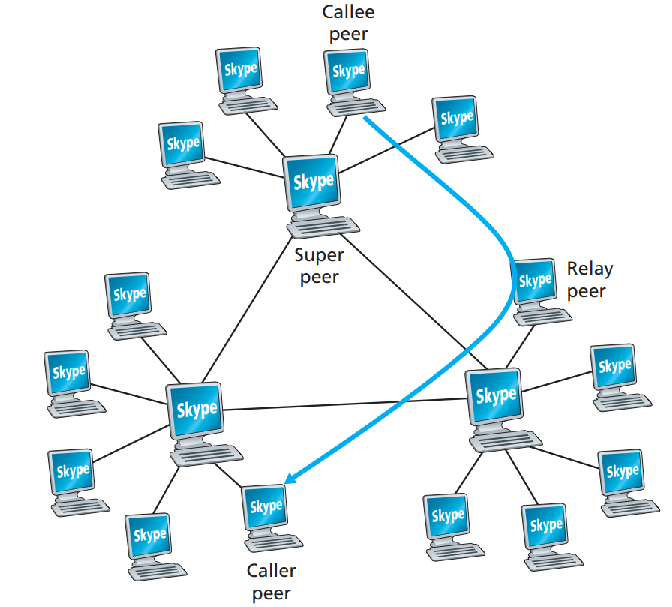
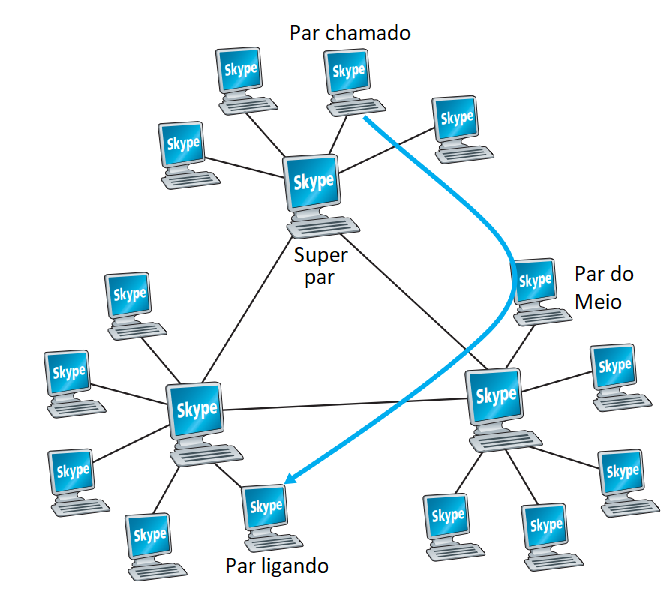
Finish reviewing Skype section

diff --git a/aplicacoes.html b/aplicacoes.html
@@ -75,10 +75,15 @@
 							<br>
 
 							<h3>Skype</h3>
-							<p class="paragraphText"><span class="spaceTab"></span>O protocolo utilizado no Skype é proprietário e por tal motivo não é trivial determinar com precisão como o Skype funciona. No entanto, sabe-se que por padrão, o Skype envia pacotes de vídeo e áudio através do UDP. Por outro lado, pacotes de controle são enviados através do TCP. Skype é um exemplo de como técnicas P2P podem ser utilizadas em aplicações diferentes de compartilhamento de arquivos ou distribuição de conteúdo.</p>
-							<p class="paragraphText"><span class="spaceTab"></span>Temos que os dois serviços principais do Skype, telefonia pela internet e mensagens instantâneas, são intrínsecamente P2P tendo em vista que a aplicação se resume a pares de usuários se comunicando em tempo real. Não obstante, há ainda duas outras funções que utilizam técnicas P2P: NAT transversal e localização de usuários. Uma hierarquia é formada pelos pares que são classificados entre um par ordinário ou um super par. É mantido um índice que mapeia nome de usuários do Skype a seus respectivos atuais endereços IP que é distribuído através dos super pares aos demais da hierarquia.</p>
+							<p class="paragraphText"><span class="spaceTab"></span>O protocolo utilizado no Skype é proprietário e, por isso, é difícil determinar seu funcionamento com precisão. No entanto, sabe-se que, por padrão, 
+							os pacotes de vídeo e áudio são enviados através de UDP, enquanto o controle das chamadas é feito por TCP. O Skype é um exemplo de como técnicas P2P podem ser utilizadas em aplicações com finalidades que fogem do compartilhamento 
+							de arquivos ou da distribuição de conteúdo com as quais já estamos familiarizados.</p>
+							<p class="paragraphText"><span class="spaceTab"></span>Os dois serviços principais do Skype (telefonia pela internet e mensagens instantâneas) são intrinsecamente P2P, tendo em vista que a aplicação se 
+							resume a pares de usuários se comunicando em tempo real. Suspeita-se que uma hierarquia seja formada pelos pares participantes, separando-os em "pares ordinários", referentes aos usuários comuns do serviço,
+							e "superpares", que mantêm mais conexões que o normal e agem de forma similar a servidores. Imagina-se que o mapeamento entre nomes de usuários do Skype e seus respectivos endereços IP atuais sejam distribuídos 
+							através dos "superpares" aos demais nós da hierarquia. A imagem abaixo tenta capturar esta ideia de forma ilustrativa, sem possuir um compromisso com o que de fato acontece.</p>
 							
-							<a href="#" class="image text"><img src="images/skype.png" alt=""></a>
+							<div class="4u 6u(3) centerImage size0-6"><span class=" image fit"><img src="images/skype.png" alt="" /></span></div>
 
 							<br>
 							<br>

diff --git a/css/no-footbar.css b/css/no-footbar.css
@@ -10,6 +10,10 @@
 	width: 35%;
 }
 
+.size0-6 {
+	width: 41%;
+}
+
 .size1 {
 	width: 50%;
 }
